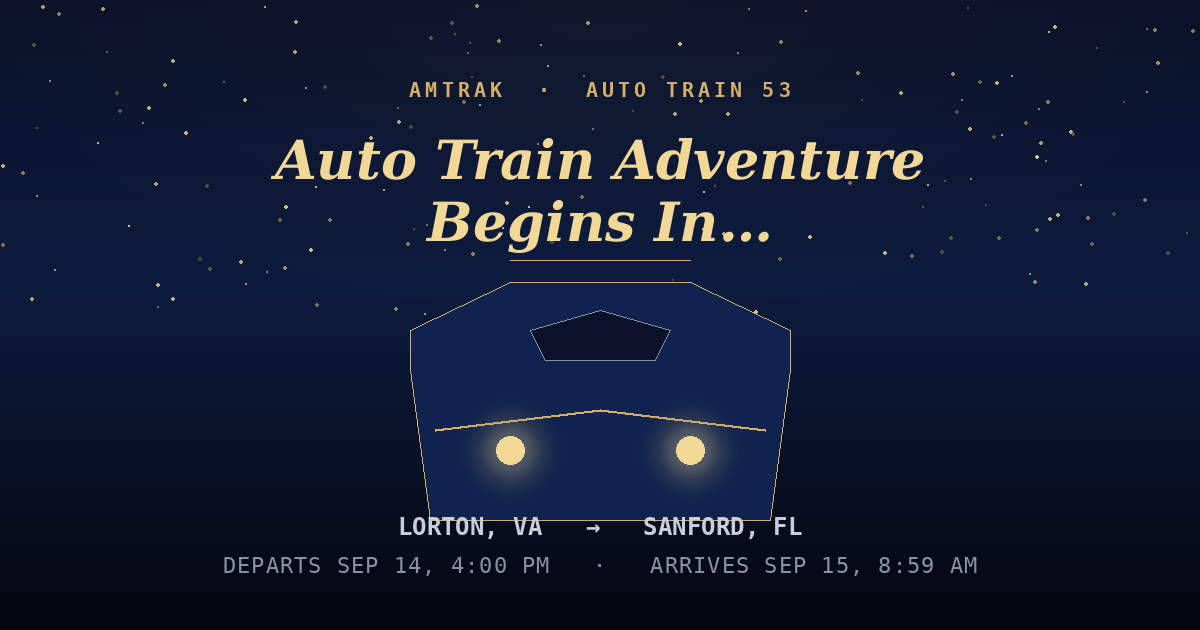
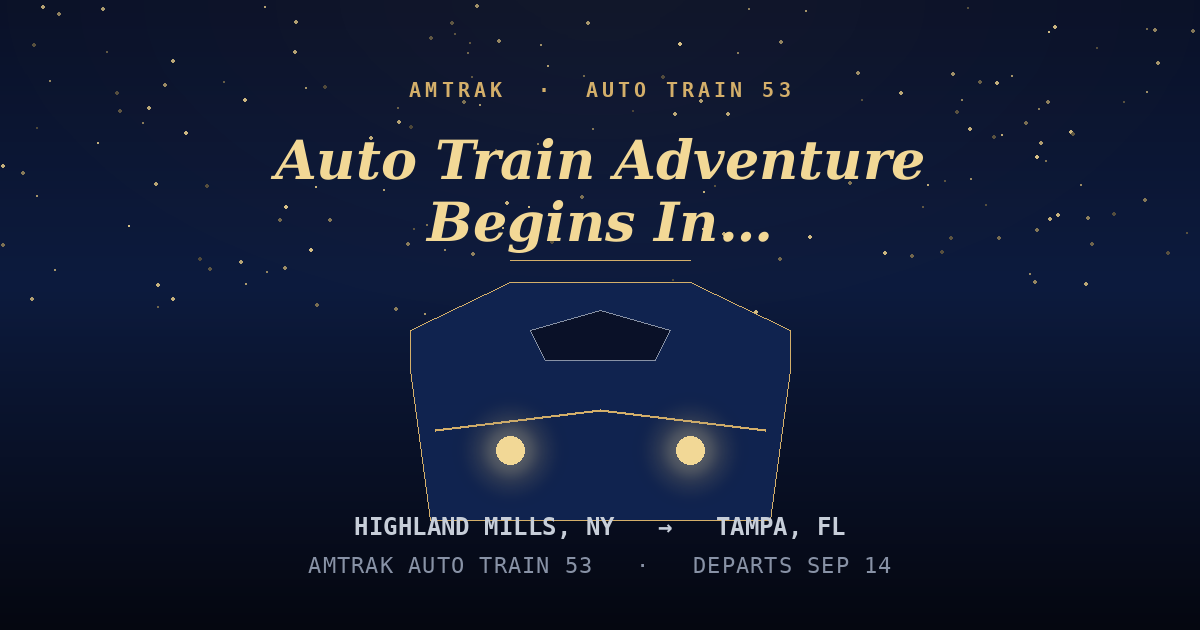
Add files via upload

Changed region(s): [[0.185, 0.8143, 0.8325, 0.9349]]

diff --git a/index.html b/index.html
@@ -8,25 +8,15 @@
 <link rel="icon" type="image/png" sizes="32x32" href="favicon-32.png">
 <link rel="apple-touch-icon" href="apple-touch-icon.png">
 
-<!-- Social share preview -->
+<!-- Social share preview (iMessage, WhatsApp, Slack, Twitter/X, Facebook, etc.) -->
 <meta property="og:title" content="Auto Train Adventure Begins In…">
-<meta property="og:description" content="Cinematic countdown to Amtrak Auto Train 53 — Lorton, VA → Sanford, FL.">
+<meta property="og:description" content="Amtrak Auto Train 53 · Highland Mills, NY → Tampa, FL. The adventure is loading… 🚂">
 <meta property="og:image" content="og-image.png">
 <meta property="og:type" content="website">
 <meta name="twitter:card" content="summary_large_image">
 <meta name="twitter:title" content="Auto Train Adventure Begins In…">
-<meta name="twitter:description" content="Cinematic countdown to Amtrak Auto Train 53 — Lorton, VA → Sanford, FL.">
+<meta name="twitter:description" content="Amtrak Auto Train 53 · Highland Mills, NY → Tampa, FL. The adventure is loading… 🚂">
 <meta name="twitter:image" content="og-image.png">
-
-<!-- Social share preview (iMessage, WhatsApp, Slack, Twitter/X, Facebook, etc.) -->
-<meta property="og:title" content="Auto Train Adventure Begins In…">
-<meta property="og:description" content="Amtrak Auto Train 53 · Lorton, VA → Sanford, FL. The adventure is loading… 🚂">
-<meta property="og:image" content="preview.png">
-<meta property="og:type" content="website">
-<meta name="twitter:card" content="summary_large_image">
-<meta name="twitter:title" content="Auto Train Adventure Begins In…">
-<meta name="twitter:description" content="Amtrak Auto Train 53 · Lorton, VA → Sanford, FL. The adventure is loading… 🚂">
-<meta name="twitter:image" content="preview.png">
 <link rel="preconnect" href="https://fonts.googleapis.com">
 <link href="https://fonts.googleapis.com/css2?family=Cormorant+Garamond:ital,wght@0,600;1,500&family=Marcellus&family=Space+Mono:wght@400;700&family=Cinzel:wght@600;900&display=swap" rel="stylesheet">
 <style>
@@ -218,6 +208,18 @@
     box-shadow: 0 0 30px rgba(212,175,106,0.5);
   }
   .gate .muted-note{ font-size:8.5px; opacity:0.6; max-width:280px; }
+
+  .sound-hint{
+    position:absolute; bottom:2.2vh; right:5%; z-index:35;
+    font-family:'Space Mono',monospace; font-size:10px; letter-spacing:1px;
+    color:var(--gold-bright);
+    background:rgba(6,9,20,0.55); border:1px solid rgba(212,175,106,0.3);
+    padding:6px 12px; border-radius:20px;
+    animation: hintPulse 1.8s ease-in-out infinite;
+    transition: opacity 0.5s ease;
+  }
+  .sound-hint.hidden{ opacity:0; pointer-events:none; }
+  @keyframes hintPulse{ 0%,100%{ opacity:0.7; } 50%{ opacity:1; } }
 </style>
 </head>
 <body>
@@ -280,11 +282,13 @@
       <div class="unit"><div class="num" id="secs">00</div><div class="lbl">Sec</div></div>
     </div>
     <div class="route-map">
-      <span>Lorton, VA</span><span class="line"></span><span style="color:var(--gold-bright)">Sanford, FL</span>
+      <span>Highland Mills, NY</span><span class="line"></span><span style="color:var(--gold-bright)">Tampa, FL</span>
     </div>
   </div>
 
   <div class="footer"><p>The adventure is loading&hellip; 🚂</p></div>
+
+  <div class="sound-hint" id="soundHint">🔇 Tap anywhere for sound</div>
 </div>
 
 <script>
@@ -395,6 +399,18 @@ function updateFx(){
 let actx = null, engineNode=null, engineGain=null;
 function initAudio(){
   actx = new (window.AudioContext||window.webkitAudioContext)();
+
+  // iOS/Chrome mobile often create the context in a "suspended" state
+  // even inside a user-gesture handler, and iOS specifically needs a
+  // silent buffer played synchronously in that same gesture to fully
+  // unlock audio. Do both, belt-and-suspenders.
+  if(actx.state === 'suspended') actx.resume();
+  const unlockBuf = actx.createBuffer(1, 1, actx.sampleRate);
+  const unlockSrc = actx.createBufferSource();
+  unlockSrc.buffer = unlockBuf;
+  unlockSrc.connect(actx.destination);
+  unlockSrc.start(0);
+
   // engine rumble: filtered noise loop
   const bufferSize = 2*actx.sampleRate;
   const noiseBuf = actx.createBuffer(1, bufferSize, actx.sampleRate);
@@ -552,10 +568,15 @@ phaseStart = performance.now();
 // never waits on this.
 function armAudioOnce(){
   if(!actx) initAudio();
+  else if(actx.state === 'suspended') actx.resume();
+  const hint = document.getElementById('soundHint');
+  if(hint) hint.classList.add('hidden');
   window.removeEventListener('pointerdown', armAudioOnce);
+  window.removeEventListener('touchend', armAudioOnce);
   window.removeEventListener('keydown', armAudioOnce);
 }
 window.addEventListener('pointerdown', armAudioOnce);
+window.addEventListener('touchend', armAudioOnce);
 window.addEventListener('keydown', armAudioOnce);
 </script>
 </body>
